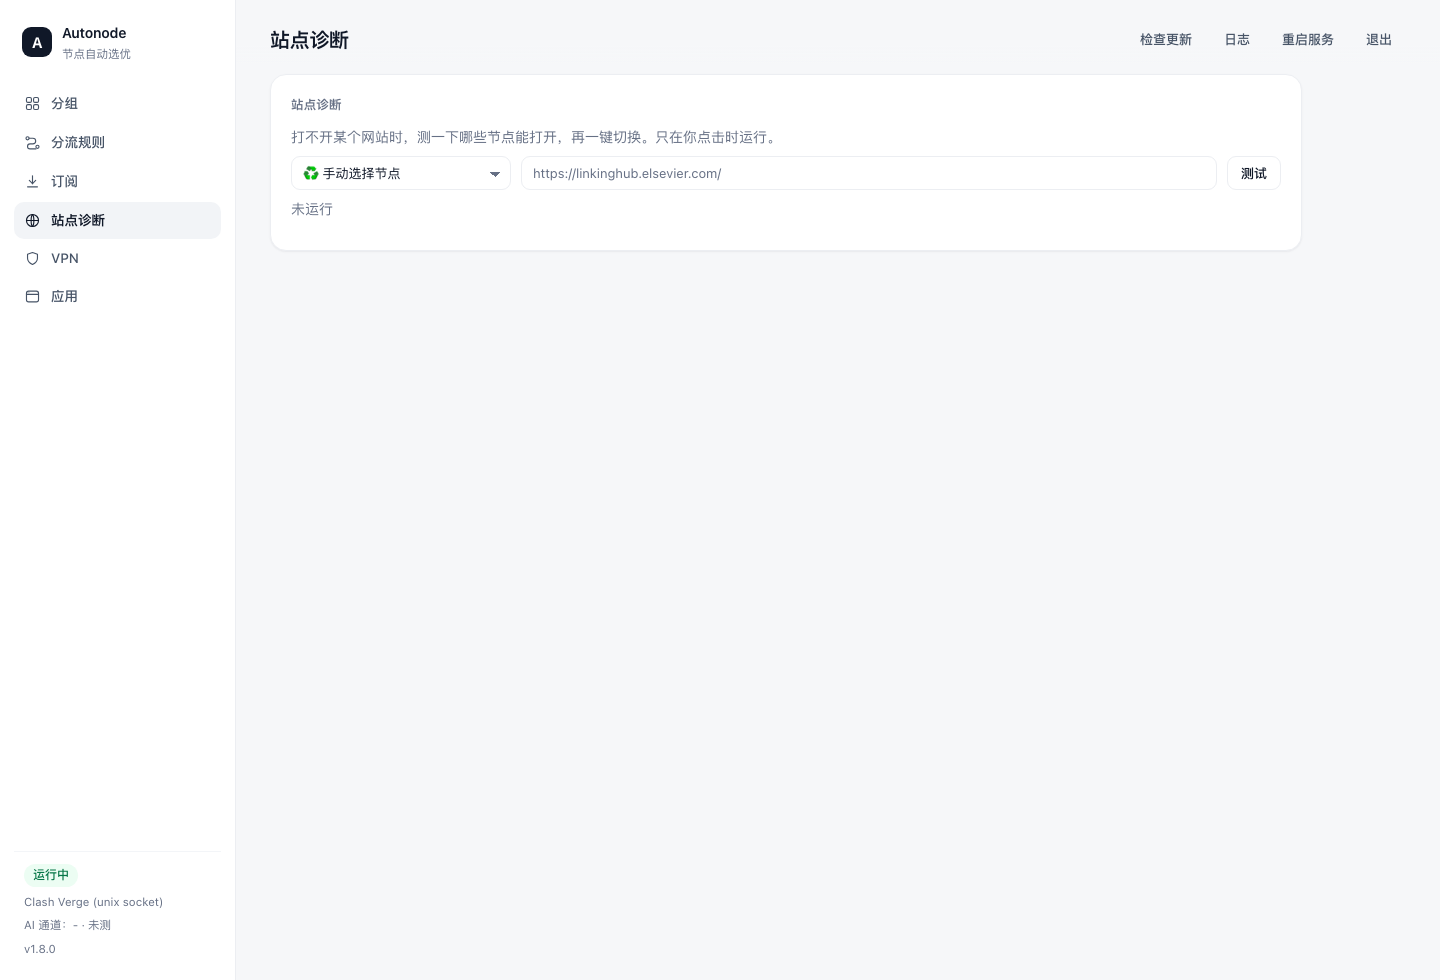
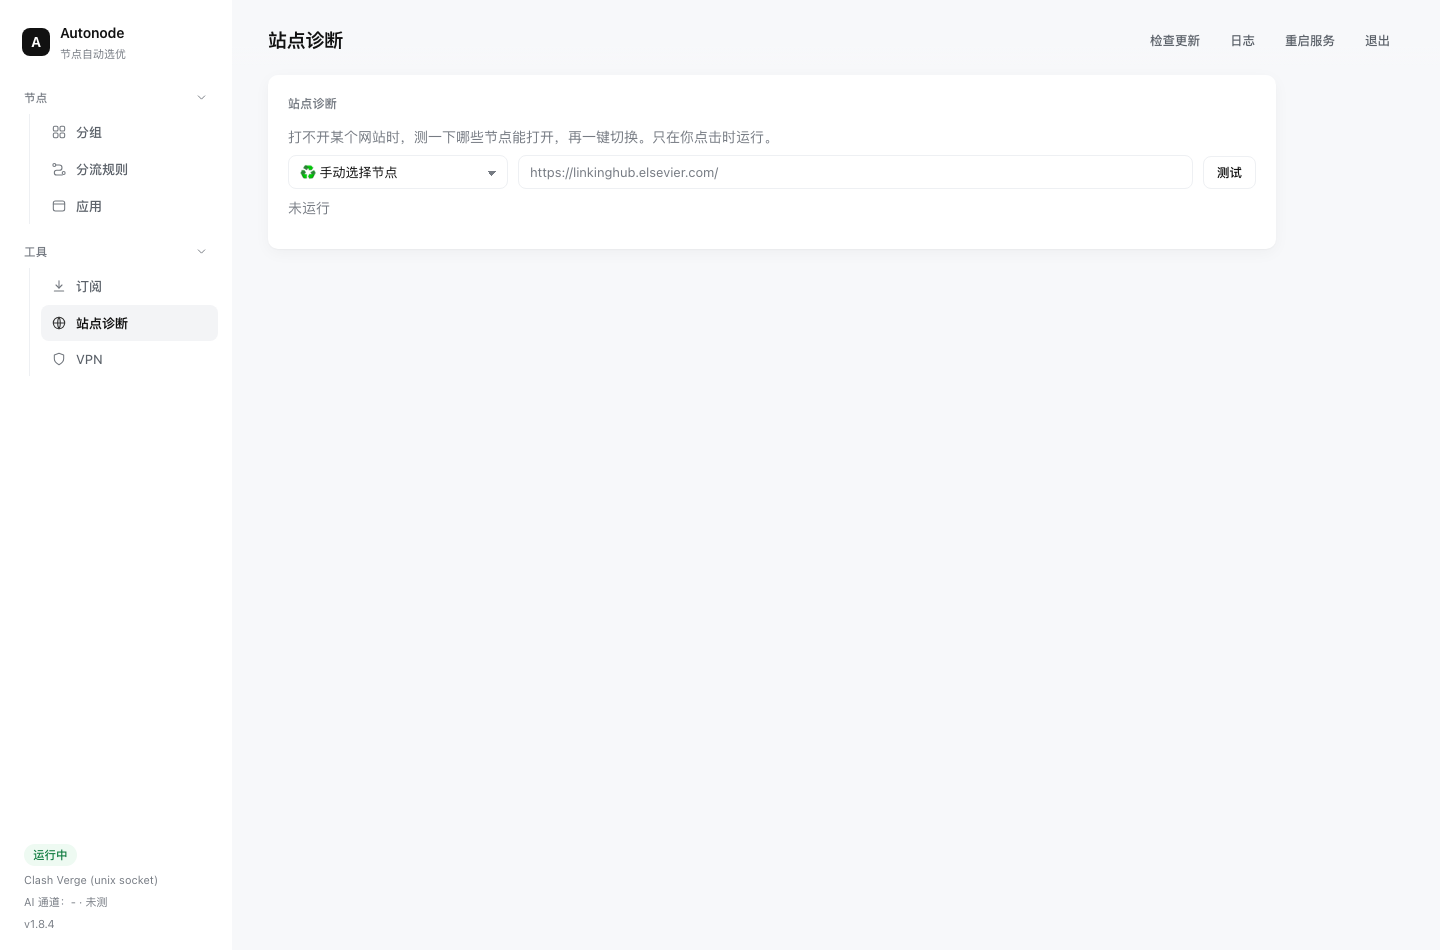
style: 侧栏分组化、黑白主色、8-10px 圆角卡片，对齐参考设计

diff --git a/autonode.py b/autonode.py
@@ -40,7 +40,7 @@ import webbrowser
 from datetime import datetime
 from http.server import BaseHTTPRequestHandler, ThreadingHTTPServer
 
-VERSION = "1.8.4"
+VERSION = "1.9.0"
 
 BASE_DIR = os.path.expanduser("~/.config/autonode")
 CONFIG_FILE = os.path.join(BASE_DIR, "config.json")
@@ -1631,15 +1631,15 @@ PAGE = r"""<!doctype html>
 <title>Autonode</title>
 <style>
 :root{
-  --page:#f6f7f9; --card:#ffffff; --side:#ffffff;
-  --line:#eceef2; --line-soft:#f3f5f8;
-  --text:#101828; --text-2:#475467; --text-3:#667085;
-  --accent:#2563eb;
-  --ok:#067647; --ok-bg:#ecfdf3;
-  --warn:#b54708; --warn-bg:#fffaeb;
-  --bad:#b42318; --bad-bg:#fef3f2;
-  --radius:16px;
-  --shadow:0 1px 2px rgba(16,24,40,.04),0 1px 3px rgba(16,24,40,.03);
+  --page:#f7f8fa; --card:#ffffff; --side:#ffffff;
+  --line:#eef0f3; --line-soft:#f4f5f7;
+  --text:#111111; --text-2:#5b6169; --text-3:#767b83;
+  --accent:#111111;
+  --ok:#0f7b3f; --ok-bg:#eefaf2;
+  --warn:#9a5b00; --warn-bg:#fdf6e9;
+  --bad:#b3261e; --bad-bg:#fdeeed;
+  --radius:10px;
+  --shadow:0 1px 2px rgba(17,17,17,.04),0 4px 16px rgba(17,17,17,.04);
 }
 *{box-sizing:border-box}
 html,body{height:100%}
@@ -1649,78 +1649,88 @@ body{margin:0;background:var(--page);color:var(--text);
 a{color:inherit}
 
 /* 外壳 */
-.shell{display:grid;grid-template-columns:236px minmax(0,1fr);min-height:100vh}
-.side{background:var(--side);border-right:1px solid var(--line);padding:20px 14px;
-  display:flex;flex-direction:column;gap:6px;position:sticky;top:0;height:100vh}
-.brand{display:flex;align-items:center;gap:10px;padding:2px 8px 16px}
-.logo{width:30px;height:30px;border-radius:9px;background:var(--text);color:#fff;
-  display:grid;place-items:center;font-weight:700;font-size:15px;letter-spacing:-.02em}
+.shell{display:grid;grid-template-columns:232px minmax(0,1fr);min-height:100vh}
+.side{background:var(--side);padding:22px 14px 16px;display:flex;flex-direction:column;
+  position:sticky;top:0;height:100vh}
+.brand{display:flex;align-items:center;gap:10px;padding:0 8px 22px}
+.logo{width:28px;height:28px;border-radius:8px;background:#111;color:#fff;
+  display:grid;place-items:center;font-weight:700;font-size:14px}
 .bname{font-weight:600;font-size:14px;letter-spacing:-.01em}
-.bmeta{font-size:11.5px;color:var(--text-3);margin-top:1px}
-.nav{display:flex;flex-direction:column;gap:2px}
-.nav button{display:flex;align-items:center;gap:10px;width:100%;justify-content:flex-start;
-  padding:9px 10px;border:0;border-radius:10px;background:transparent;color:var(--text-2);
-  font-size:13.5px;font-weight:500;cursor:pointer;transition:background .18s,color .18s}
-.nav button svg{width:17px;height:17px;flex:none;stroke:currentColor;fill:none;
-  stroke-width:1.6;stroke-linecap:round;stroke-linejoin:round}
-.nav button:hover{background:#f8f9fb;color:var(--text)}
-.nav button.on{background:#f2f4f7;color:var(--text);font-weight:600}
-.side-foot{margin-top:auto;padding:12px 10px 2px;border-top:1px solid var(--line-soft);
-  display:flex;flex-direction:column;gap:6px;font-size:11.5px;color:var(--text-3)}
+.bmeta{font-size:11px;color:var(--text-3);margin-top:1px}
+
+/* 导航分组 */
+.navwrap{display:flex;flex-direction:column;gap:14px}
+.navgroup{display:flex;flex-direction:column}
+.navhead{display:flex;align-items:center;justify-content:space-between;width:100%;
+  padding:6px 10px;border:0;background:transparent;color:var(--text-3);
+  font-size:11.5px;font-weight:500;letter-spacing:.02em;cursor:pointer;border-radius:8px}
+.navhead:hover{color:var(--text-2);background:#fafbfc}
+.navhead svg{width:13px;height:13px;stroke:currentColor;fill:none;stroke-width:1.8;
+  stroke-linecap:round;stroke-linejoin:round;transition:transform .22s ease}
+.navgroup.collapsed .navhead svg{transform:rotate(-90deg)}
+.navgroup.collapsed .navsub{display:none}
+.navsub{display:flex;flex-direction:column;gap:1px;margin-left:15px;padding-left:11px;
+  border-left:1px solid var(--line);margin-top:2px}
+.navsub button{display:flex;align-items:center;gap:9px;width:100%;justify-content:flex-start;
+  padding:9px 10px;border:0;border-radius:8px;background:transparent;color:var(--text-2);
+  font-size:13px;font-weight:450;cursor:pointer;transition:background .18s,color .18s}
+.navsub button svg{width:16px;height:16px;flex:none;stroke:currentColor;fill:none;
+  stroke-width:1.6;stroke-linecap:round;stroke-linejoin:round;opacity:.85}
+.navsub button:hover{background:#fafbfc;color:var(--text)}
+.navsub button.on{background:#f3f4f6;color:var(--text);font-weight:600}
+.side-foot{margin-top:auto;padding:14px 10px 2px;display:flex;flex-direction:column;
+  gap:5px;font-size:11px;color:var(--text-3)}
 .side-foot .badge{align-self:flex-start}
 
 .main{min-width:0;display:flex;flex-direction:column}
 .topbar{display:flex;justify-content:space-between;align-items:center;gap:16px;
-  padding:22px 34px 8px;position:sticky;top:0;z-index:20;
-  background:linear-gradient(var(--page) 72%,rgba(246,247,249,0))}
-.topbar h1{font-size:20px;font-weight:600;letter-spacing:-.015em;margin:0}
-.topbar .row{gap:4px}
-.content{padding:10px 34px 72px;width:100%;max-width:1100px}
+  padding:24px 36px 8px;position:sticky;top:0;z-index:20;
+  background:linear-gradient(var(--page) 72%,rgba(247,248,250,0))}
+.topbar h1{font-size:19px;font-weight:600;letter-spacing:-.015em;margin:0}
+.topbar .row{gap:2px}
+.content{padding:10px 36px 72px;width:100%;max-width:1080px}
 
-/* 卡片 */
-.card{background:var(--card);border:1px solid var(--line);border-radius:var(--radius);
-  padding:20px;margin-bottom:16px;box-shadow:var(--shadow);
-  animation:rise .32s cubic-bezier(.2,.7,.3,1) both}
-.card h2{font-size:12.5px;font-weight:600;color:var(--text-3);letter-spacing:.01em;
-  text-transform:none;margin:0 0 12px}
-@keyframes rise{from{opacity:0;transform:translateY(5px)}to{opacity:1;transform:none}}
+/* 卡片：统一圆角 + 微弱投影，作为层级高光 */
+.card{background:var(--card);border-radius:var(--radius);padding:20px;margin-bottom:14px;
+  box-shadow:var(--shadow);animation:rise .3s cubic-bezier(.2,.7,.3,1) both}
+.card h2{font-size:12px;font-weight:600;color:var(--text-3);letter-spacing:.02em;margin:0 0 12px}
+@keyframes rise{from{opacity:0;transform:translateY(4px)}to{opacity:1;transform:none}}
 @media(prefers-reduced-motion:reduce){.card{animation:none}*{transition:none!important}}
 
 /* KPI */
-.kpis{display:grid;grid-template-columns:repeat(4,minmax(0,1fr));gap:14px;margin-bottom:16px}
-.kpi{background:var(--card);border:1px solid var(--line);border-radius:14px;
-  padding:16px 18px;box-shadow:var(--shadow)}
-.klabel{font-size:12px;color:var(--text-3)}
+.kpis{display:grid;grid-template-columns:repeat(4,minmax(0,1fr));gap:12px;margin-bottom:14px}
+.kpi{background:var(--card);border-radius:10px;padding:16px 18px;box-shadow:var(--shadow)}
+.klabel{font-size:11.5px;color:var(--text-3)}
 .kval{font-size:23px;font-weight:600;letter-spacing:-.02em;margin-top:6px;line-height:1.2}
-.kfoot{font-size:12px;color:var(--text-3);margin-top:6px}
+.kfoot{font-size:11.5px;color:var(--text-3);margin-top:6px}
 @media(max-width:1040px){.kpis{grid-template-columns:repeat(2,minmax(0,1fr))}}
 
 /* 按钮 */
 button{appearance:none;background:#fff;border:1px solid var(--line);color:var(--text);
-  border-radius:9px;padding:7px 13px;font-size:13px;font-weight:500;cursor:pointer;
+  border-radius:8px;padding:7px 13px;font-size:12.5px;font-weight:500;cursor:pointer;
   font-family:inherit;transition:background .18s,border-color .18s,opacity .18s}
-button:hover{background:#f9fafb;border-color:#dfe3e8}
+button:hover{background:#fafbfc;border-color:#e3e6ea}
 button:active{opacity:.75}
 button.primary{background:var(--accent);border-color:var(--accent);color:#fff}
-button.primary:hover{background:#1d4ed8;border-color:#1d4ed8}
+button.primary:hover{background:#000;border-color:#000}
 button.ghost{background:transparent;border-color:transparent;color:var(--text-2)}
-button.ghost:hover{background:#f2f4f7;color:var(--text)}
+button.ghost:hover{background:#f3f4f6;color:var(--text)}
 button:disabled{opacity:.45;cursor:default}
 
 /* 表单 */
-label{display:block;margin:12px 0 5px;font-size:12px;color:var(--text-3);font-weight:500}
+label{display:block;margin:12px 0 5px;font-size:11.5px;color:var(--text-3);font-weight:500}
 input,select{width:100%;background:#fff;border:1px solid var(--line);color:var(--text);
-  border-radius:9px;padding:8px 11px;font-size:13px;font-family:inherit;
+  border-radius:8px;padding:8px 11px;font-size:13px;font-family:inherit;
   transition:border-color .18s,box-shadow .18s}
 input::placeholder{color:var(--text-3)}
-input:focus,select:focus{outline:none;border-color:#b2c7f7;box-shadow:0 0 0 3px rgba(37,99,235,.10)}
+input:focus,select:focus{outline:none;border-color:#c9ced6;box-shadow:0 0 0 3px rgba(17,17,17,.06)}
 select{appearance:none;background-image:linear-gradient(45deg,transparent 50%,var(--text-3) 50%),linear-gradient(135deg,var(--text-3) 50%,transparent 50%);
   background-position:calc(100% - 15px) 56%,calc(100% - 10px) 56%;background-size:5px 5px,5px 5px;
   background-repeat:no-repeat;padding-right:28px}
 
 /* 状态 */
-.badge{display:inline-block;padding:2px 9px;border-radius:999px;font-size:12px;
-  font-weight:500;background:#f2f4f7;color:var(--text-2)}
+.badge{display:inline-block;padding:2px 9px;border-radius:999px;font-size:11.5px;
+  font-weight:500;background:#f3f4f6;color:var(--text-2)}
 .badge.ok{background:var(--ok-bg);color:var(--ok)}
 .badge.warn{background:var(--warn-bg);color:var(--warn)}
 .badge.bad{background:var(--bad-bg);color:var(--bad)}
@@ -1728,23 +1738,10 @@ select{appearance:none;background-image:linear-gradient(45deg,transparent 50%,va
 /* 表格 */
 table{width:100%;border-collapse:collapse;font-size:13px}
 th{text-align:left;padding:9px 8px;color:var(--text-3);font-weight:500;
-  font-size:11.5px;border-bottom:1px solid var(--line)}
+  font-size:11px;border-bottom:1px solid var(--line)}
 td{text-align:left;padding:12px 8px;border-bottom:1px solid var(--line-soft);vertical-align:middle}
 tr:last-child td{border-bottom:0}
 tbody tr:hover td{background:#fbfcfd}
-
-/* 分组卡片：收起 / 切换按钮 */
-.iconbtn{width:26px;height:26px;padding:0;display:grid;place-items:center;border:0;
-  border-radius:8px;background:transparent;color:var(--text-3);flex:none}
-.iconbtn:hover{background:#f2f4f7;color:var(--text)}
-.iconbtn svg{width:16px;height:16px;stroke:currentColor;fill:none;stroke-width:1.8;
-  stroke-linecap:round;stroke-linejoin:round;transition:transform .22s ease}
-.gcard.collapsed .iconbtn svg{transform:rotate(-90deg)}
-.gcard.collapsed .gbody{display:none}
-.gsum{font-size:12.5px;color:var(--text-3);margin-left:2px}
-.gcard:not(.collapsed) .gsum{display:none}
-.gcard td button{padding:5px 10px;font-size:12.5px;white-space:nowrap}
-.gcard td:last-child{width:78px}
 
 /* 其他 */
 .row{display:flex;gap:10px;flex-wrap:wrap;align-items:center}
@@ -1754,38 +1751,53 @@ tbody tr:hover td{background:#fbfcfd}
 .mono{font-family:ui-monospace,SFMono-Regular,"SF Mono",Menlo,monospace;font-size:12.5px}
 .big{font-size:19px;font-weight:600;letter-spacing:-.01em;word-break:break-all}
 .ghd{display:flex;justify-content:space-between;align-items:center;gap:12px;flex-wrap:wrap}
-.ghd .row{gap:4px}
+.ghd .row{gap:2px}
 .gname{font-weight:600;letter-spacing:-.01em}
 .chips{display:flex;flex-wrap:wrap;gap:8px;margin-top:8px}
-.chip{display:flex;align-items:center;gap:6px;background:#f8f9fb;border-radius:9px;
+.chip{display:flex;align-items:center;gap:6px;background:#f7f8fa;border-radius:8px;
   padding:6px 10px;font-size:12.5px;cursor:pointer;user-select:none}
 .chip input{width:auto;margin:0}
-details summary{cursor:pointer;font-size:13px;color:var(--text-2);margin-top:16px;padding:4px 0}
+details summary{cursor:pointer;font-size:12.5px;color:var(--text-2);margin-top:16px;padding:4px 0}
 details summary:hover{color:var(--text)}
-pre{background:#f8f9fb;border-radius:12px;padding:14px;max-height:60vh;overflow:auto;
-  font-size:12px;line-height:1.5;margin:0;white-space:pre-wrap;color:#344054}
+pre{background:#f7f8fa;border-radius:10px;padding:14px;max-height:60vh;overflow:auto;
+  font-size:12px;line-height:1.5;margin:0;white-space:pre-wrap;color:#3f4550}
+
+/* 分组卡片：收起 / 切换按钮 */
+.iconbtn{width:26px;height:26px;padding:0;display:grid;place-items:center;border:0;
+  border-radius:8px;background:transparent;color:var(--text-3);flex:none}
+.iconbtn:hover{background:#f3f4f6;color:var(--text)}
+.iconbtn svg{width:15px;height:15px;stroke:currentColor;fill:none;stroke-width:1.8;
+  stroke-linecap:round;stroke-linejoin:round;transition:transform .22s ease}
+.gcard.collapsed .iconbtn svg{transform:rotate(-90deg)}
+.gcard.collapsed .gbody{display:none}
+.gsum{font-size:12px;color:var(--text-3)}
+.gcard:not(.collapsed) .gsum{display:none}
+.gcard td button{padding:5px 10px;font-size:12px;white-space:nowrap}
+.gcard td:last-child{width:78px}
 
 /* 弹窗 */
-.modal{position:fixed;inset:0;background:rgba(16,24,40,.30);
-  backdrop-filter:saturate(130%) blur(6px);-webkit-backdrop-filter:saturate(130%) blur(6px);
+.modal{position:fixed;inset:0;background:rgba(17,17,17,.28);
+  backdrop-filter:saturate(120%) blur(6px);-webkit-backdrop-filter:saturate(120%) blur(6px);
   display:flex;align-items:center;justify-content:center;padding:26px;z-index:60;
   animation:fade .2s ease both}
 .modal[hidden]{display:none}
-.modal .box{background:#fff;border-radius:18px;width:min(880px,100%);max-height:84vh;
+.modal .box{background:#fff;border-radius:14px;width:min(880px,100%);max-height:84vh;
   padding:22px;display:flex;flex-direction:column;gap:12px;
-  box-shadow:0 24px 60px rgba(16,24,40,.22);animation:pop .24s cubic-bezier(.2,.7,.3,1) both}
+  box-shadow:0 24px 60px rgba(17,17,17,.2);animation:pop .24s cubic-bezier(.2,.7,.3,1) both}
 @keyframes fade{from{opacity:0}to{opacity:1}}
 @keyframes pop{from{opacity:0;transform:translateY(6px) scale(.99)}to{opacity:1;transform:none}}
 
-/* 窄屏：侧栏折叠为顶部 */
 @media(max-width:860px){
   .shell{grid-template-columns:1fr}
-  .side{position:static;height:auto;flex-direction:row;align-items:center;
-    gap:10px;padding:10px 14px;border-right:0;border-bottom:1px solid var(--line);overflow-x:auto}
+  .side{position:static;height:auto;flex-direction:row;align-items:center;gap:10px;
+    padding:10px 14px;overflow-x:auto}
   .brand{display:none}
-  .nav{flex-direction:row;gap:4px}
-  .nav button{width:auto;white-space:nowrap;padding:7px 10px}
-  .nav button svg{display:none}
+  .navwrap{flex-direction:row;gap:6px}
+  .navgroup{flex-direction:row;align-items:center}
+  .navhead{display:none}
+  .navsub{flex-direction:row;margin:0;padding:0;border:0;gap:2px}
+  .navsub button{width:auto;white-space:nowrap;padding:7px 10px}
+  .navsub button svg{display:none}
   .side-foot{display:none}
   .topbar{padding:16px 18px 6px}
   .content{padding:8px 18px 56px}
@@ -1799,26 +1811,41 @@ pre{background:#f8f9fb;border-radius:12px;padding:14px;max-height:60vh;overflow:
     <div class="logo">A</div>
     <div><div class="bname">Autonode</div><div class="bmeta">节点自动选优</div></div>
   </div>
-  <nav class="nav">
-    <button data-nav="groups" class="on">
-      <svg viewBox="0 0 24 24"><rect x="3.5" y="3.5" width="7" height="7" rx="2"/><rect x="13.5" y="3.5" width="7" height="7" rx="2"/><rect x="3.5" y="13.5" width="7" height="7" rx="2"/><rect x="13.5" y="13.5" width="7" height="7" rx="2"/></svg>
-      分组</button>
-    <button data-nav="routes">
-      <svg viewBox="0 0 24 24"><circle cx="5" cy="6" r="2.2"/><circle cx="19" cy="18" r="2.2"/><path d="M7.2 6h5.3a4 4 0 0 1 0 8h-4a3.5 3.5 0 0 0 0 7h8.3"/></svg>
-      分流规则</button>
-    <button data-nav="sub">
-      <svg viewBox="0 0 24 24"><path d="M12 4v11"/><path d="m7.5 10.5 4.5 4.5 4.5-4.5"/><path d="M5 19.5h14"/></svg>
-      订阅</button>
-    <button data-nav="site">
-      <svg viewBox="0 0 24 24"><circle cx="12" cy="12" r="8.5"/><path d="M3.5 12h17"/><path d="M12 3.5c2.6 2.6 2.6 14.4 0 17-2.6-2.6-2.6-14.4 0-17z"/></svg>
-      站点诊断</button>
-    <button data-nav="vpn">
-      <svg viewBox="0 0 24 24"><path d="M12 3.5 19 6v5.6c0 4-2.9 6.9-7 8.9-4.1-2-7-4.9-7-8.9V6z"/></svg>
-      VPN</button>
-    <button data-nav="apps">
-      <svg viewBox="0 0 24 24"><rect x="3.5" y="4.5" width="17" height="15" rx="3"/><path d="M3.5 9h17"/><circle cx="7" cy="6.8" r=".7" fill="currentColor" stroke="none"/></svg>
-      应用</button>
-  </nav>
+
+  <div class="navwrap">
+    <div class="navgroup" data-group="nodes">
+      <button class="navhead" data-toggle="nodes">节点
+        <svg viewBox="0 0 24 24"><path d="m6 9 6 6 6-6"/></svg></button>
+      <div class="navsub">
+        <button data-nav="groups" class="on">
+          <svg viewBox="0 0 24 24"><rect x="3.5" y="3.5" width="7" height="7" rx="2"/><rect x="13.5" y="3.5" width="7" height="7" rx="2"/><rect x="3.5" y="13.5" width="7" height="7" rx="2"/><rect x="13.5" y="13.5" width="7" height="7" rx="2"/></svg>
+          分组</button>
+        <button data-nav="routes">
+          <svg viewBox="0 0 24 24"><circle cx="5" cy="6" r="2.2"/><circle cx="19" cy="18" r="2.2"/><path d="M7.2 6h5.3a4 4 0 0 1 0 8h-4a3.5 3.5 0 0 0 0 7h8.3"/></svg>
+          分流规则</button>
+        <button data-nav="apps">
+          <svg viewBox="0 0 24 24"><rect x="3.5" y="4.5" width="17" height="15" rx="3"/><path d="M3.5 9h17"/></svg>
+          应用</button>
+      </div>
+    </div>
+
+    <div class="navgroup" data-group="tools">
+      <button class="navhead" data-toggle="tools">工具
+        <svg viewBox="0 0 24 24"><path d="m6 9 6 6 6-6"/></svg></button>
+      <div class="navsub">
+        <button data-nav="sub">
+          <svg viewBox="0 0 24 24"><path d="M12 4v11"/><path d="m7.5 10.5 4.5 4.5 4.5-4.5"/><path d="M5 19.5h14"/></svg>
+          订阅</button>
+        <button data-nav="site">
+          <svg viewBox="0 0 24 24"><circle cx="12" cy="12" r="8.5"/><path d="M3.5 12h17"/><path d="M12 3.5c2.6 2.6 2.6 14.4 0 17-2.6-2.6-2.6-14.4 0-17z"/></svg>
+          站点诊断</button>
+        <button data-nav="vpn">
+          <svg viewBox="0 0 24 24"><path d="M12 3.5 19 6v5.6c0 4-2.9 6.9-7 8.9-4.1-2-7-4.9-7-8.9V6z"/></svg>
+          VPN</button>
+      </div>
+    </div>
+  </div>
+
   <div class="side-foot">
     <span id="state" class="badge">加载中</span>
     <div id="ctl"></div>
@@ -2040,6 +2067,18 @@ function el(id){ return document.getElementById(id); }
 function badge(t,c){ return '<span class="badge '+(c||'')+'">'+t+'</span>'; }
 function post(u,b){ return fetch(u,{method:'POST',headers:{'Content-Type':'application/json'},body:JSON.stringify(b||{})}).then(function(r){return r.json();}); }
 function get(u){ return fetch(u,{cache:'no-store'}).then(function(r){return r.json();}); }
+
+document.querySelectorAll('[data-toggle]').forEach(function(h){
+  h.onclick = function(){
+    var g = h.closest('.navgroup');
+    g.classList.toggle('collapsed');
+    try {
+      var m = JSON.parse(localStorage.getItem('autonode.nav') || '{}');
+      m[h.dataset.toggle] = g.classList.contains('collapsed');
+      localStorage.setItem('autonode.nav', JSON.stringify(m));
+    } catch(e){}
+  };
+});
 
 document.querySelectorAll('[data-nav]').forEach(function(b){
   b.onclick = function(){
@@ -2413,6 +2452,15 @@ loadProviders();
 loadRoutes();
 
 (function(){
+  try {
+    var m = JSON.parse(localStorage.getItem('autonode.nav') || '{}');
+    Object.keys(m).forEach(function(k){
+      if(!m[k]) return;
+      var g = document.querySelector('.navgroup[data-group="' + k + '"]');
+      if(g) g.classList.add('collapsed');
+    });
+  } catch(e){}
+
   var t = (location.hash || '').replace('#','');
   var b = t && document.querySelector('[data-nav="' + t + '"]');
   if(b){ b.click(); }
